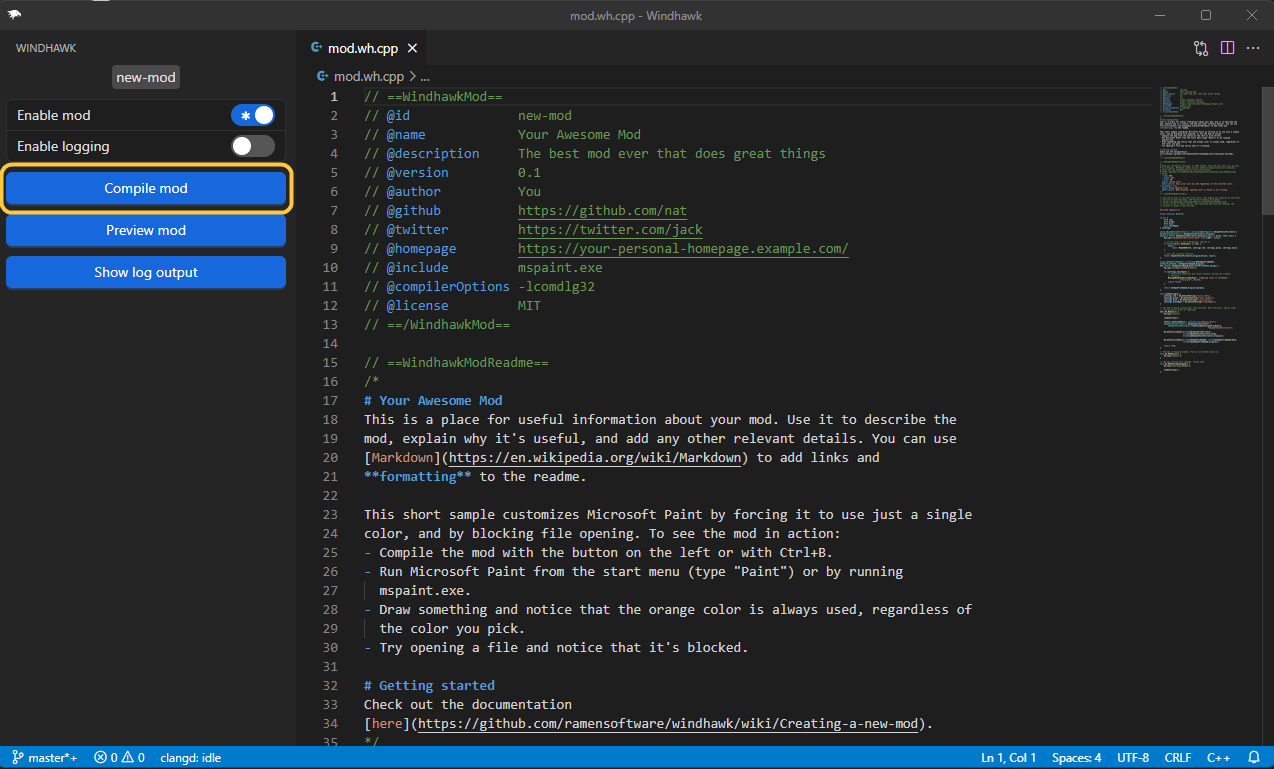
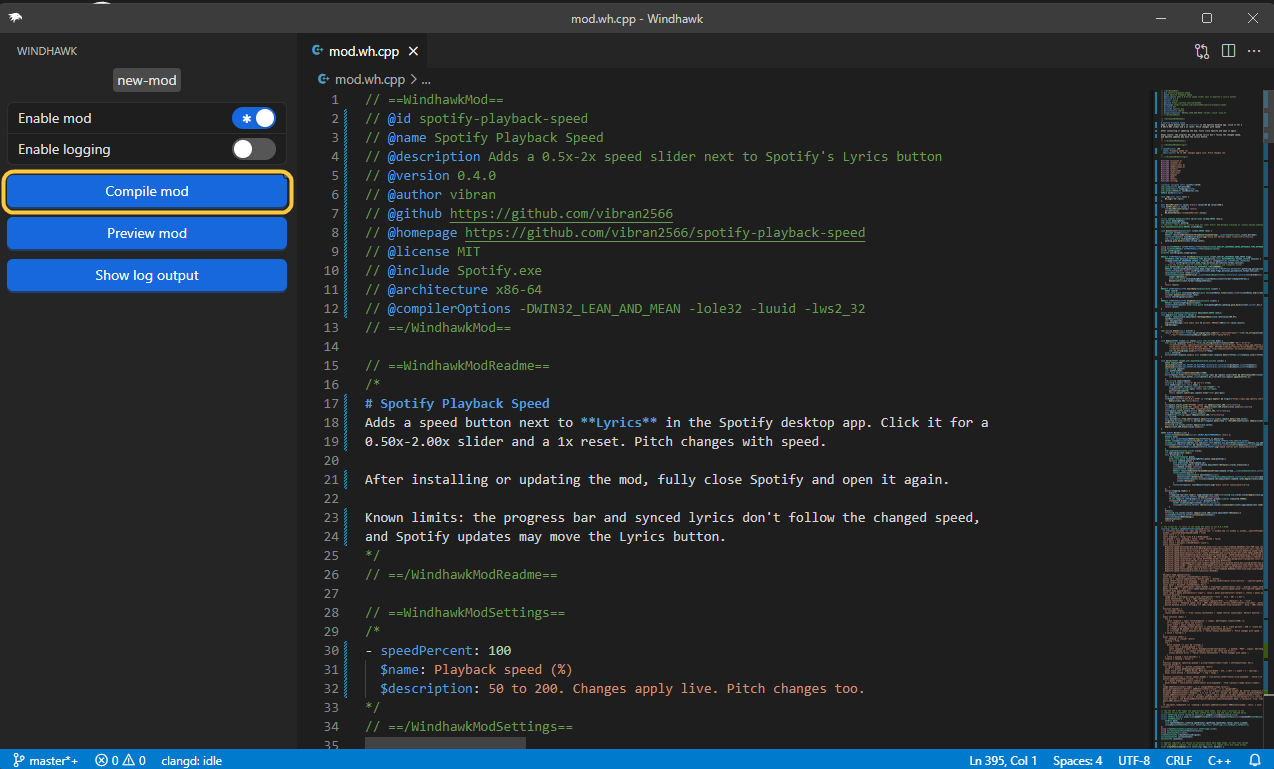
Use real-code editor screenshots and add the close step

diff --git a/README.md b/README.md
@@ -29,11 +29,15 @@ Nothing to download or run. You paste one file into Windhawk, which compiles it.
 
 <img src="images/2-create-new-mod.png" alt="Windhawk home screen with the Create a new mod button highlighted" width="700">
 
-**4. Paste and compile.** The editor opens with example code. Press **Ctrl+A**, then **Ctrl+V** to replace it with the mod. Click **Compile mod**, wait for it to finish, then click **Exit editing mode**.
+**4. Paste and compile.** Press **Ctrl+A**, then **Ctrl+V** to replace the example code. Click **Compile mod**.
 
-<img src="images/3-compile-mod.png" alt="Windhawk editor with the Compile mod button highlighted" width="700">
+<img src="images/3-compile-mod.png" alt="Windhawk editor with the mod pasted in and the Compile mod button highlighted" width="700">
 
-**5. Restart Spotify.** Fully close it, including its tray icon, and open it again. The speed button appears just left of **Lyrics**.
+**5. Close the editor** once it finishes compiling.
+
+<img src="images/4-close-editor.png" alt="Windhawk editor after compiling, with the window's close button highlighted" width="700">
+
+**6. Restart Spotify.** Fully close it, including its tray icon, and open it again. The speed button appears just left of **Lyrics**.
 
 > [!TIP]
 > **To update**, open the mod in Windhawk, click **Edit**, paste the new version over the old code and click **Compile mod**. Then restart Spotify. Your speed setting is kept.
